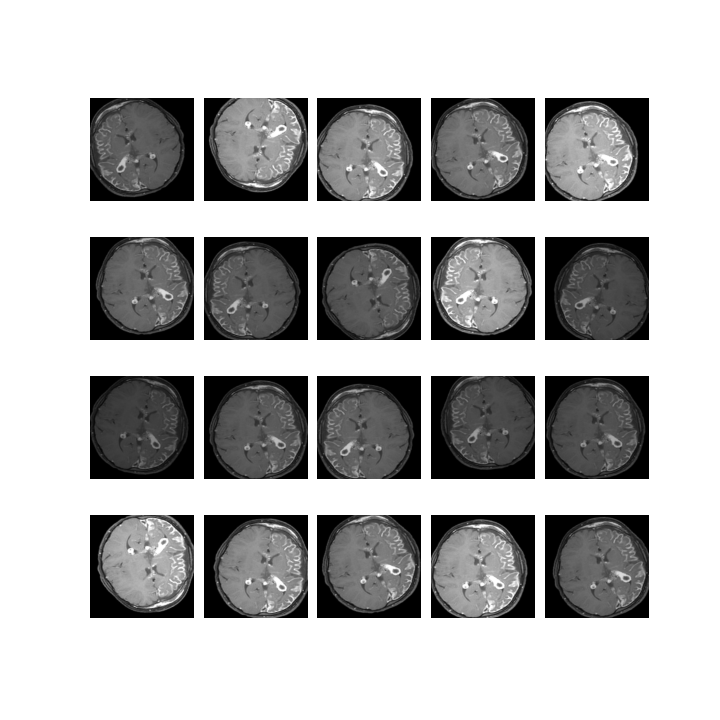
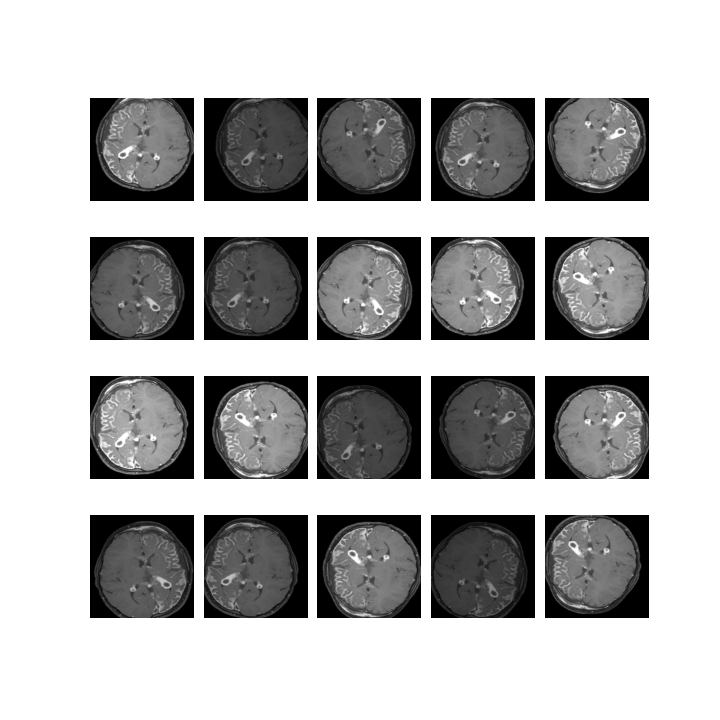
plot changes

diff --git a/plotting.py b/plotting.py
@@ -22,6 +22,11 @@ def plot_image(image: np.ndarray, save:str=None) -> None:
 
     
     plt.imshow(image)
+    plt.axis('off')
+    # Remove the x and y ticks
+    plt.xticks([])
+    plt.yticks([])
+
     if save is not None:
         plt.savefig("./Figures/"+save+".png")
     plt.show()
